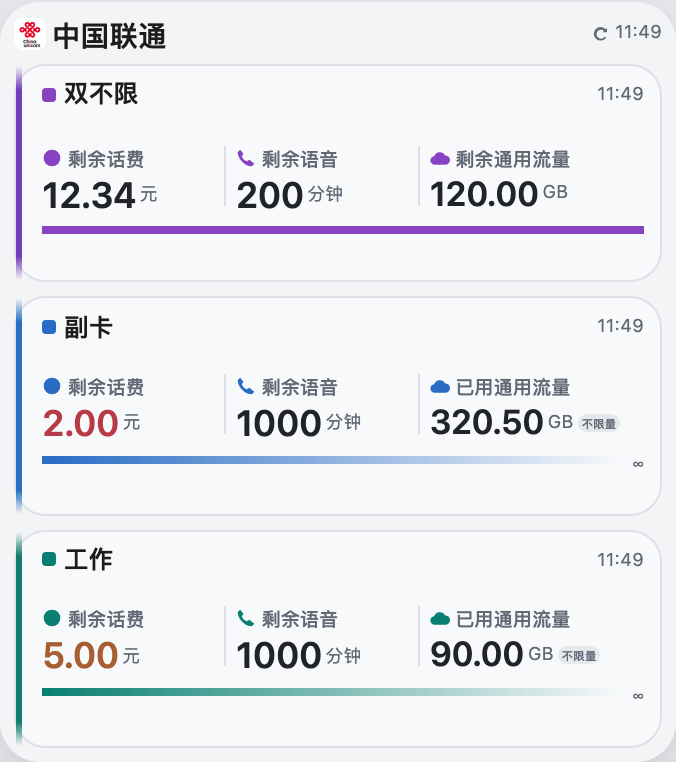
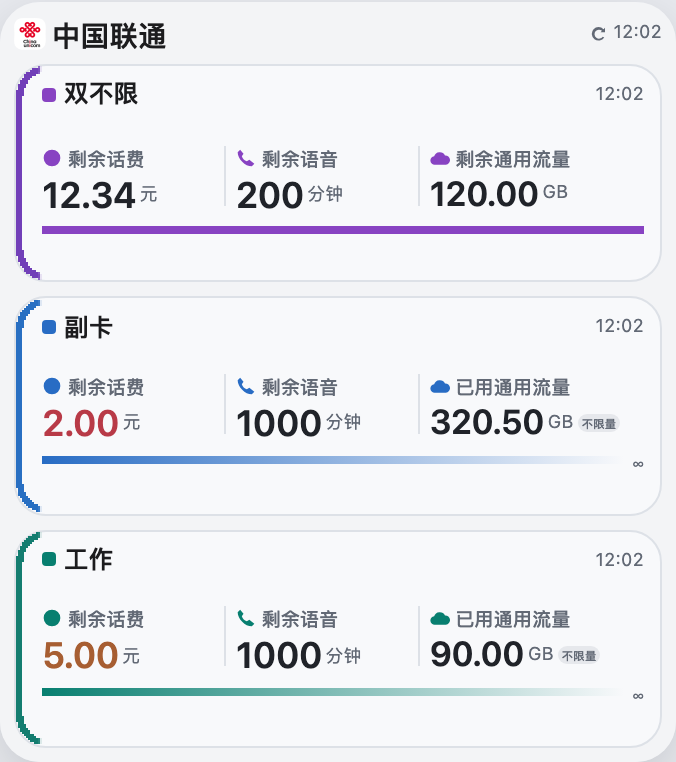
fix(widget): curve accent rails inside rounded card contours

diff --git a/UnicomThreeCards.js b/UnicomThreeCards.js
@@ -243,6 +243,20 @@ function compactIdentity(alias,suffix,family,s) {
  if(suffix) parts.push({...text('· '+suffix,s.name-2,COLORS.value,'medium'),minScale:1});
  return parts;
 }
+// Quarter-point scan conversion of the INSIDE of the 16pt card outline (1pt border).
+// Each strip is fully contained in the 12pt gutter: no clipping/overflow/overlay API needed.
+// Adaptive colors remain native Colors; PNG/SVG tinting is not assumed by the image DSL.
+function contourCorner(color,bottom=false) {
+ const step=0.25,r=15,inner=12,width=12;
+ return {type:'stack',direction:'row',width,height:r,gap:0,alignItems:'start',children:Array.from({length:width/step},(_,i)=>{
+  // Conservative strip bounds keep every colored point inside the outer circular boundary.
+  const x=i*step,dx=r-x;
+  const top=r-Math.sqrt(Math.max(0,r*r-dx*dx));
+  const end=x+step<r-inner?r:r-Math.sqrt(Math.max(0,inner*inner-(r-x-step)**2));
+  const alpha=Math.round(255*Math.min(1,(width-x-step)/2)).toString(16).padStart(2,'0');
+  return {type:'stack',direction:'column',width:step,height:r,padding:[bottom?r-end:top,0,0,0],children:end>top?[{type:'stack',width:step,height:end-top,backgroundColor:{light:color.light+alpha,dark:color.dark+alpha},children:[]}]:[]};
+ })};
+}
 // Three-column reference layout: identity/time, fee + voice + flow, bottom bar.
 // A narrow documented stack rail marks the slot; no tinted metric capsules.
 function compactCard(ctx,result,selection,family,metric) {
@@ -258,17 +272,17 @@ function compactCard(ctx,result,selection,family,metric) {
  const roomy=family==='systemLarge'||family==='systemExtraLarge';
  // Roomy cards share the actual widget height; fixed identity/metrics fence recursive flex.
  // Remaining room belongs to explicit breathing slots, never the title or metric-to-bar gap.
- // Move padding to the content, preserving its exact x/y coordinates. The rail now touches
- // the left border; transparent corner ends keep it inside the rounded outline without clipping APIs.
+ // Move the curved rail into the existing content gutter without shifting any text.
+ // The 15pt inner radius follows the 16pt card's 1pt outline; every strip stays inside it.
  const pad=family==='systemMedium'?[0,7,0,7]:roomy?[6,8,6,8]:CARD_PAD;
  const railHeight=small?26:30;
  const railColor={light:['#713FB8','#286FC2','#147D70'][slot],dark:SUMMARY_COLORS[slot].dark};
- const rail=roomy?{type:'stack',direction:'column',width:3,gap:0,alignItems:'start',children:[
-  {type:'stack',width:3,height:12,backgroundGradient:{type:'linear',colors:[{light:railColor.light+'00',dark:railColor.dark+'00'},railColor],startPoint:{x:0.5,y:0},endPoint:{x:0.5,y:1}},children:[]},
+ const rail=roomy?{type:'stack',direction:'column',width:12,gap:0,alignItems:'start',children:[
+  contourCorner(railColor),
   {type:'stack',width:3,flex:1,backgroundColor:railColor,children:[]},
-  {type:'stack',width:3,height:12,backgroundGradient:{type:'linear',colors:[railColor,{light:railColor.light+'00',dark:railColor.dark+'00'}],startPoint:{x:0.5,y:0},endPoint:{x:0.5,y:1}},children:[]}
+  contourCorner(railColor,true)
  ]}:{type:'stack',direction:'column',width:2,height:railHeight,borderRadius:1,backgroundGradient:{type:'linear',colors:[{light:SUMMARY_COLORS[slot].light+'26',dark:SUMMARY_COLORS[slot].dark+'26'},SUMMARY_COLORS[slot],{light:SUMMARY_COLORS[slot].light+'26',dark:SUMMARY_COLORS[slot].dark+'26'}],stops:[0,0.5,1],startPoint:{x:0.5,y:0},endPoint:{x:0.5,y:1}},children:[]};
- const block=children=>({type:'stack',direction:'row',alignItems:'start',gap:0,padding:0,flex:1,backgroundColor:slotCardBg(slot),borderRadius:CARD_RADIUS,borderWidth:1,borderColor:slotCardBorder(slot),children:[rail,{type:'stack',direction:'column',padding:[pad[0],pad[1],pad[2],pad[3]+s.gap-(roomy?1:0)],gap:family==='systemMedium'?1:roomy?0:s.gap,flex:1,children}]});
+ const block=children=>({type:'stack',direction:'row',alignItems:'start',gap:0,padding:0,flex:1,backgroundColor:slotCardBg(slot),borderRadius:CARD_RADIUS,borderWidth:1,borderColor:slotCardBorder(slot),children:[rail,{type:'stack',direction:'column',padding:[pad[0],pad[1],pad[2],pad[3]+s.gap-(roomy?10:0)],gap:family==='systemMedium'?1:roomy?0:s.gap,flex:1,children}]});
  if(!result.data) return lock?{type:'stack',direction:'column',gap:2,children:[idRow,text(result.status,9,COLORS.accent)]}:block([idRow,text(result.status,small?9:11,COLORS.accent)]);
  const [fee,voice,flow]=result.data;
  if(lock) return {type:'stack',direction:'column',gap:1,children:[row([dot,...compactIdentity(alias,'',family,s),text(flow.value,s.value,COLORS.value,'semibold'),text(flow.unit,s.unit,SUMMARY_MUTED)],3)]};

diff --git a/tests/contour.test.js b/tests/contour.test.js
@@ -1,0 +1,34 @@
+import test from 'node:test';
+import assert from 'node:assert/strict';
+import run from '../UnicomThreeCards.js';
+import {mock,capture,phones,cards} from './helpers.js';
+
+test('curved accent follows inner radius, never protrudes, and keeps original text origin',async()=>{
+ for(const family of ['systemLarge','systemExtraLarge']){
+  const m=mock();for(const p of phones)await capture(m,p);
+  const tree=await run({...m.ctx,widgetFamily:family,env:{VIEW:'all'}});
+  for(const card of cards(tree)){
+   const [rail,content]=card.children;
+   assert.equal(rail.width+content.padding[3],13,'same original content x');
+   assert.equal(rail.children[1].width,3);
+   const [top,,bottom]=rail.children;
+   assert.equal(top.children.length,48);assert.equal(top.height,15);
+   let curved=0;
+   for(let i=0;i<48;i++){
+    const a=top.children[i],b=bottom.children[i],ink=a.children[0];
+    assert.equal(a.width,0.25);assert.equal(a.height,15);
+    if(!ink)continue;
+    assert.ok(a.padding[0]+ink.height<=15+1e-9);
+    assert.ok(Math.abs(b.padding[0]+ink.height+a.padding[0]-15)<1e-9,'mirror ends exactly');
+    assert.deepEqual(ink.backgroundColor,b.children[0].backgroundColor);
+    for(const mode of ['light','dark'])assert.match(ink.backgroundColor[mode],/^#[0-9a-f]{8}$/i);
+    if(i>12&&i<36&&a.padding[0]>0&&a.padding[0]<12)curved++;
+    // Rasterize every strip at 8x: no painted pixel may lie outside the inner circle.
+    for(let x=i*.25+.0625;x<(i+1)*.25;x+=.125)for(let y=a.padding[0]+.0625;y<a.padding[0]+ink.height;y+=.125){
+     assert.ok((x-15)**2+(y-15)**2<=225+1e-8,'corner pixel inside outline');
+    }
+   }
+   assert.ok(curved>15,'actual curved contour, not a faded straight rail');
+  }
+ }
+});

diff --git a/tests/polish.test.js b/tests/polish.test.js
@@ -9,7 +9,7 @@ for(const family of ['systemMedium','systemLarge','systemExtraLarge','systemSmal
  const t=await run({...m.ctx,widgetFamily:family,env:{VIEW:'all',LOW_BALANCE_THRESHOLD:'0'}});
  cards(t).forEach((c,i)=>{
   const rail=c.children[0],roomy=['systemLarge','systemExtraLarge'].includes(family);
-  if(roomy){assert.equal(rail.width,3);assert.equal(rail.height,undefined);assert.equal(rail.children[0].height,12);assert.equal(rail.children[2].height,12);assert.equal(rail.children[1].flex,1);assert.equal(rail.children[1].backgroundColor.dark,['#B66CFF','#5EA7FF','#48D7C0'][i]);}
+  if(roomy){assert.equal(rail.width,12);assert.equal(rail.height,undefined);assert.equal(rail.children[0].height,15);assert.equal(rail.children[2].height,15);assert.equal(rail.children[1].flex,1);assert.equal(rail.children[1].backgroundColor.dark,['#B66CFF','#5EA7FF','#48D7C0'][i]);}
   else {const g=rail.backgroundGradient;assert.equal(rail.width,2);assert.equal(rail.height,family==='systemSmall'?26:30);assert.equal(rail.borderRadius,1);assert.equal(g.type,'linear');assert.deepEqual(g.startPoint,{x:0.5,y:0});assert.deepEqual(g.endPoint,{x:0.5,y:1});assert.deepEqual(g.stops,[0,0.5,1]);for(const mode of ['light','dark'])assert.equal(g.colors[0][mode],g.colors[1][mode]+'26');}
   const data=m.ctx.storage.getJSON('egern.unicom3.v1.slot.'+(i+1)).data;
   for(const d of family==='systemSmall'?[data[2]]:data){assert.deepEqual(nodes(c).find(n=>n.text===d.value).textColor,ink);assert.ok(nodes(c).filter(n=>n.text===d.unit).every(n=>JSON.stringify(n.textColor)===JSON.stringify(muted)));}

diff --git a/tests/three-column.test.js b/tests/three-column.test.js
@@ -18,7 +18,7 @@ for(const family of ['systemMedium','systemLarge','systemExtraLarge']) test('thr
  cards(t).forEach((card,i)=>{
   const [rail,content]=card.children;
   const roomy=family!=='systemMedium';
-  assert.equal(card.direction,'row');assert.equal(rail.width,roomy?3:2);
+  assert.equal(card.direction,'row');assert.equal(rail.width,roomy?12:2);
   assert.equal(roomy?rail.children[1].backgroundColor.dark:rail.backgroundGradient.colors[1].dark,['#B66CFF','#5EA7FF','#48D7C0'][i]);
   const header=content.children[0],metrics=content.children[roomy?2:1],bottom=content.children[roomy?4:3];
   assert.equal(hasFlex(header),false,'identity must not absorb remaining card height');
@@ -33,7 +33,7 @@ for(const family of ['systemMedium','systemLarge','systemExtraLarge']) test('thr
   assert.equal(nodes(card).filter(n=>n.text===records[i].data[2].value).length,1);
   if(roomy){
    assert.equal(card.height,undefined);assert.equal(card.flex,1);
-   assert.equal(rail.height,undefined);assert.equal(card.padding,0);assert.deepEqual(content.padding,[6,8,6,10]);
+   assert.equal(rail.height,undefined);assert.equal(card.padding,0);assert.deepEqual(content.padding,[6,8,6,1]);
    assert.equal(content.children[1].flex,1);assert.equal(content.children[1].children[0].height,7);assert.equal(content.children[3].height,5);assert.equal(content.children[5].flex,1);
    assert.ok(!content.children.some(n=>n.type==='spacer'),'no floor-pinned whitespace');
    const col=metrics.children[4];assert.ok(col.children[1].children[0].font.size>header.children[1].font.size);

diff --git a/tests/title-edge-time.test.js b/tests/title-edge-time.test.js
@@ -10,7 +10,7 @@ test('accepted large title shrinks only brand; full-edge rail preserves content 
   const t=await run({...m.ctx,widgetFamily:family,env:{VIEW:'all',SHOW_PHONE_SUFFIX:'true'}});
   assert.equal(t.children[0].children[1].font.size,font);assert.equal(t.children[0].children[0].width,icon);
   assert.ok(nodes(t.children[0]).every(n=>!n.flex));
-  cards(t).forEach((c,i)=>{assert.equal(c.height,undefined);assert.equal(c.flex,1);assert.equal(c.padding,0);assert.equal(c.gap,0);assert.equal(c.children[0].height,undefined);assert.equal(c.children[0].width,3);assert.deepEqual(c.children[1].padding,[6,8,6,10]);assert.equal(c.children[1].children[0].children[1].font.size,family==='systemLarge'?13:14);assert.ok(nodes(c).some(n=>n.text==='· '+phones[i].slice(-4)));assert.ok(nodes(c).every(n=>!n.text?.includes('尾号')&&!n.text?.includes(phones[i])));});
+  cards(t).forEach((c,i)=>{assert.equal(c.height,undefined);assert.equal(c.flex,1);assert.equal(c.padding,0);assert.equal(c.gap,0);assert.equal(c.children[0].height,undefined);assert.equal(c.children[0].width,12);assert.deepEqual(c.children[1].padding,[6,8,6,1]);assert.equal(c.children[1].children[0].children[1].font.size,family==='systemLarge'?13:14);assert.ok(nodes(c).some(n=>n.text==='· '+phones[i].slice(-4)));assert.ok(nodes(c).every(n=>!n.text?.includes('尾号')&&!n.text?.includes(phones[i])));});
  }
 });
 test('failed account keeps original timestamp plus cache marker; healthy account has neither marker nor rewritten time',async()=>{

diff --git a/tests/adaptive.test.js b/tests/adaptive.test.js
@@ -9,6 +9,6 @@ test('roomy cards fill leftover height without flexing header/metrics or detachi
   const t=await run({...m.ctx,widgetFamily:family,env:{VIEW:'all',SHOW_BRAND}});
   const holder=t.children.at(-1);assert.equal(holder.flex,1);assert.equal(holder.height,undefined);assert.equal(holder.gap,7);assert.ok(!t.children.some(n=>n.type==='spacer'));
   if(SHOW_BRAND==='true')assert.ok(nodes(t.children[0]).every(n=>!n.flex));
-  for(const c of cards(t)){assert.equal(c.flex,1);assert.equal(c.height,undefined);const content=c.children[1];assert.equal(content.children[0].height,family==='systemLarge'?16.900000000000002:18.2);assert.ok(content.children[2].height>30);assert.equal(content.children[3].height,5);assert.equal(content.children[1].flex,content.children[5].flex);assert.equal(c.children[0].children[1].flex,1);assert.equal(c.children[0].children[0].height,12);}
+  for(const c of cards(t)){assert.equal(c.flex,1);assert.equal(c.height,undefined);const content=c.children[1];assert.equal(content.children[0].height,family==='systemLarge'?16.900000000000002:18.2);assert.ok(content.children[2].height>30);assert.equal(content.children[3].height,5);assert.equal(content.children[1].flex,content.children[5].flex);assert.equal(c.children[0].children[1].flex,1);assert.equal(c.children[0].children[0].height,15);}
  }
 });

diff --git a/tests/dark-neutral.test.js b/tests/dark-neutral.test.js
@@ -15,7 +15,7 @@ test('neutral summary surfaces, severity-only fee colors and 4pt theme bars pres
  for(const badge of badges){assert.equal(badge.backgroundColor.dark,'#292B30');assert.equal(badge.children[0].textColor.dark,'#C2C6CE');assert.equal(badge.children[0].font.size,6);}
  cards(t).forEach((c,i)=>{
   assert.equal(c.backgroundColor.dark,'#1D1F23');assert.equal(c.borderColor.dark,'#292B30');
-  assert.equal(c.children.length,2);assert.equal(c.children[0].width,3);
+  assert.equal(c.children.length,2);assert.equal(c.children[0].width,12);
   assert.equal(c.children[1].children[2].children.length,5);
   assert.ok(c.children[1].children[2].children.filter(n=>n.direction==='column').every(n=>!n.backgroundColor));
   const all=nodes(c);assert.equal(all.find(n=>n.text===fee[i]).textColor.dark,['#ECEEF2','#FF5C68','#D99A70'][i]);
